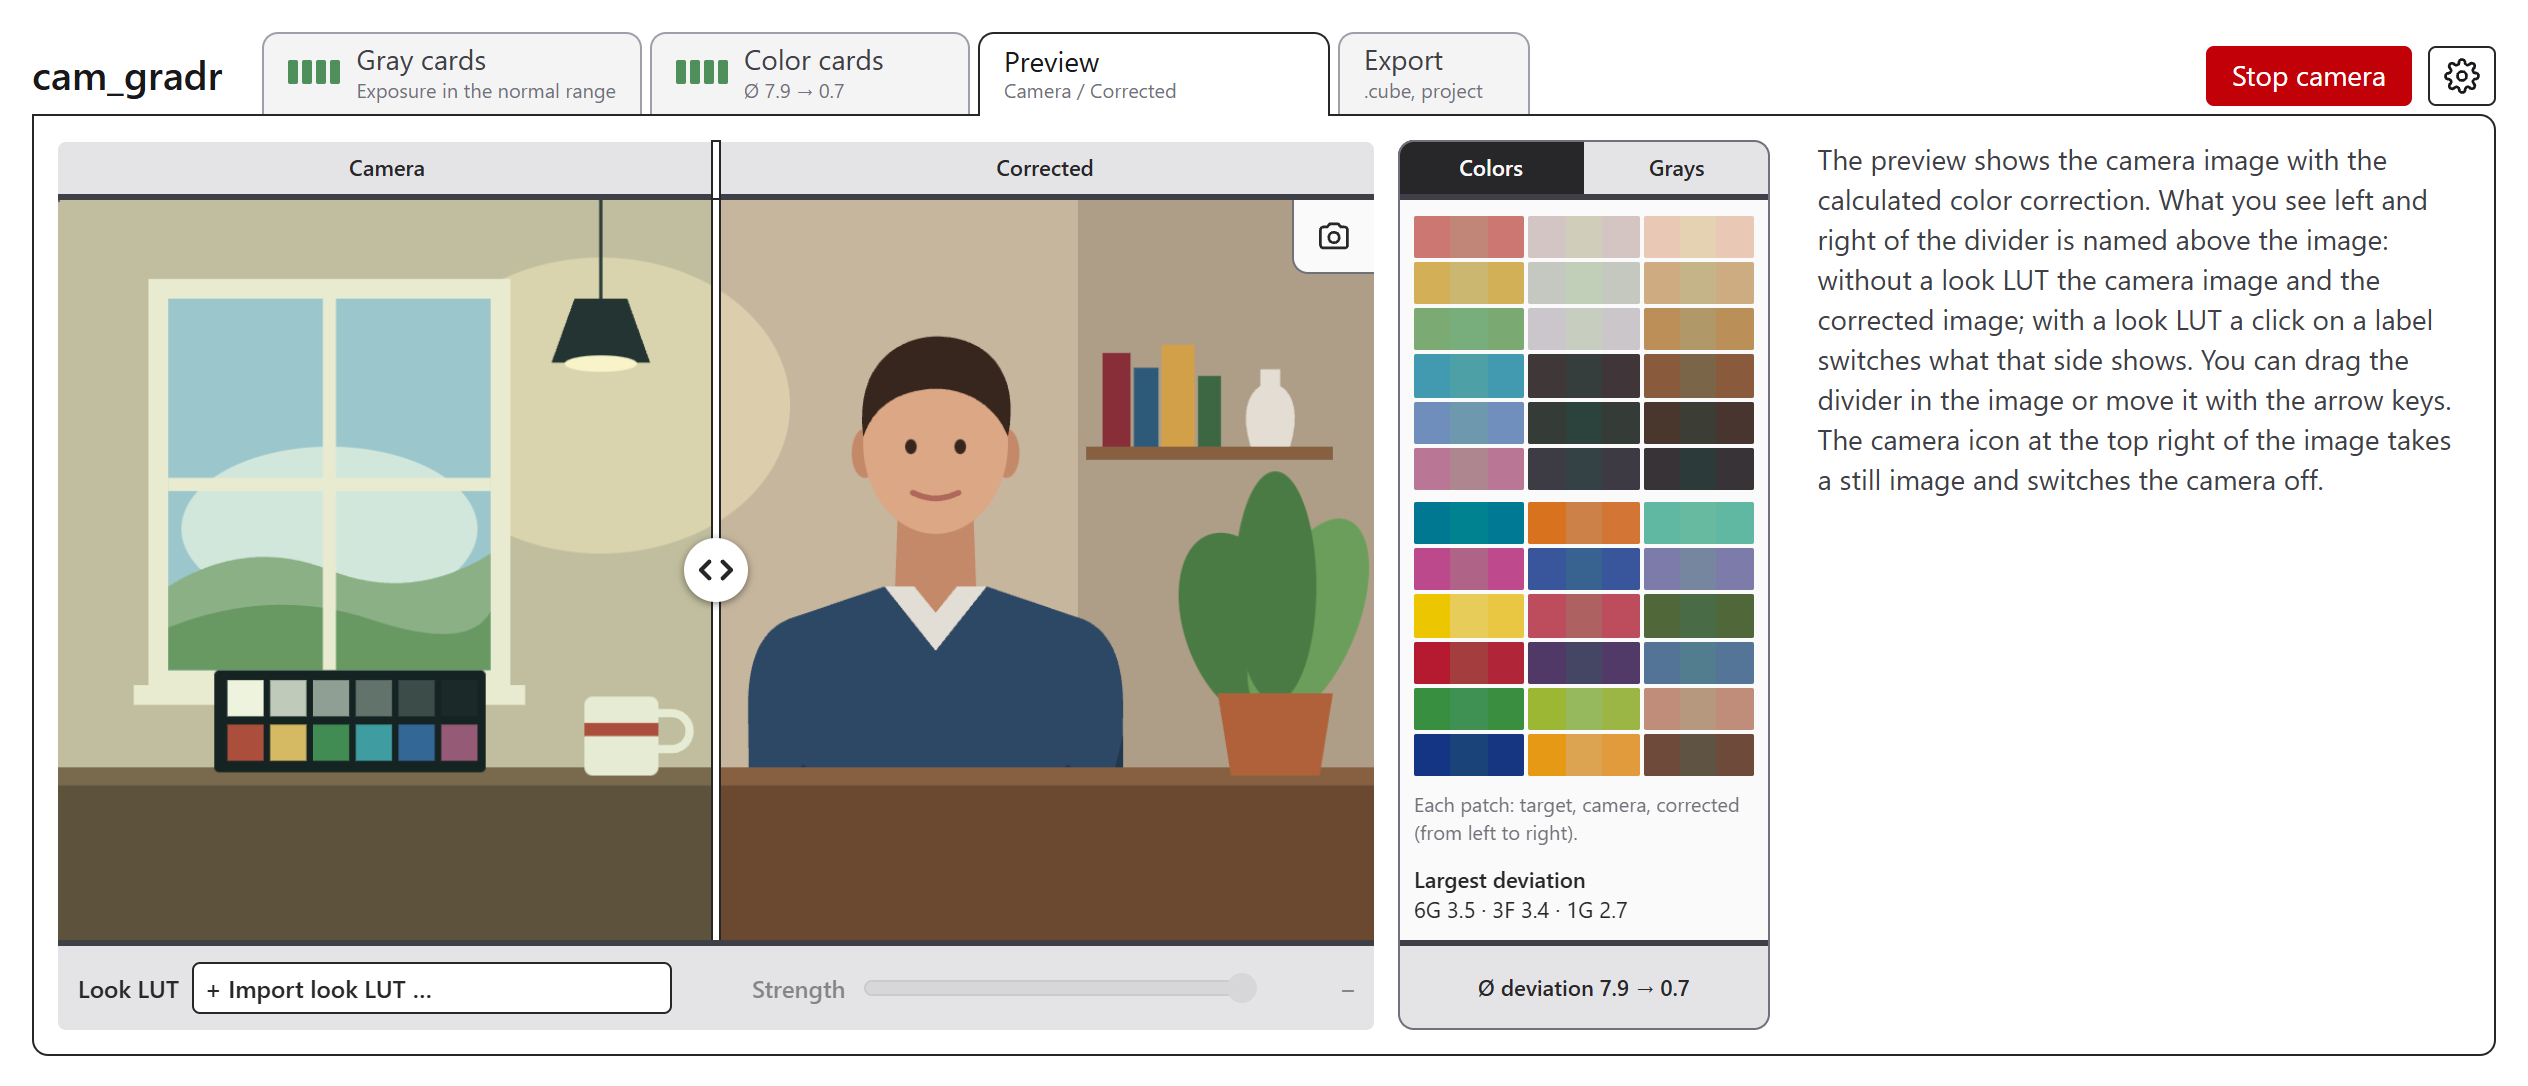
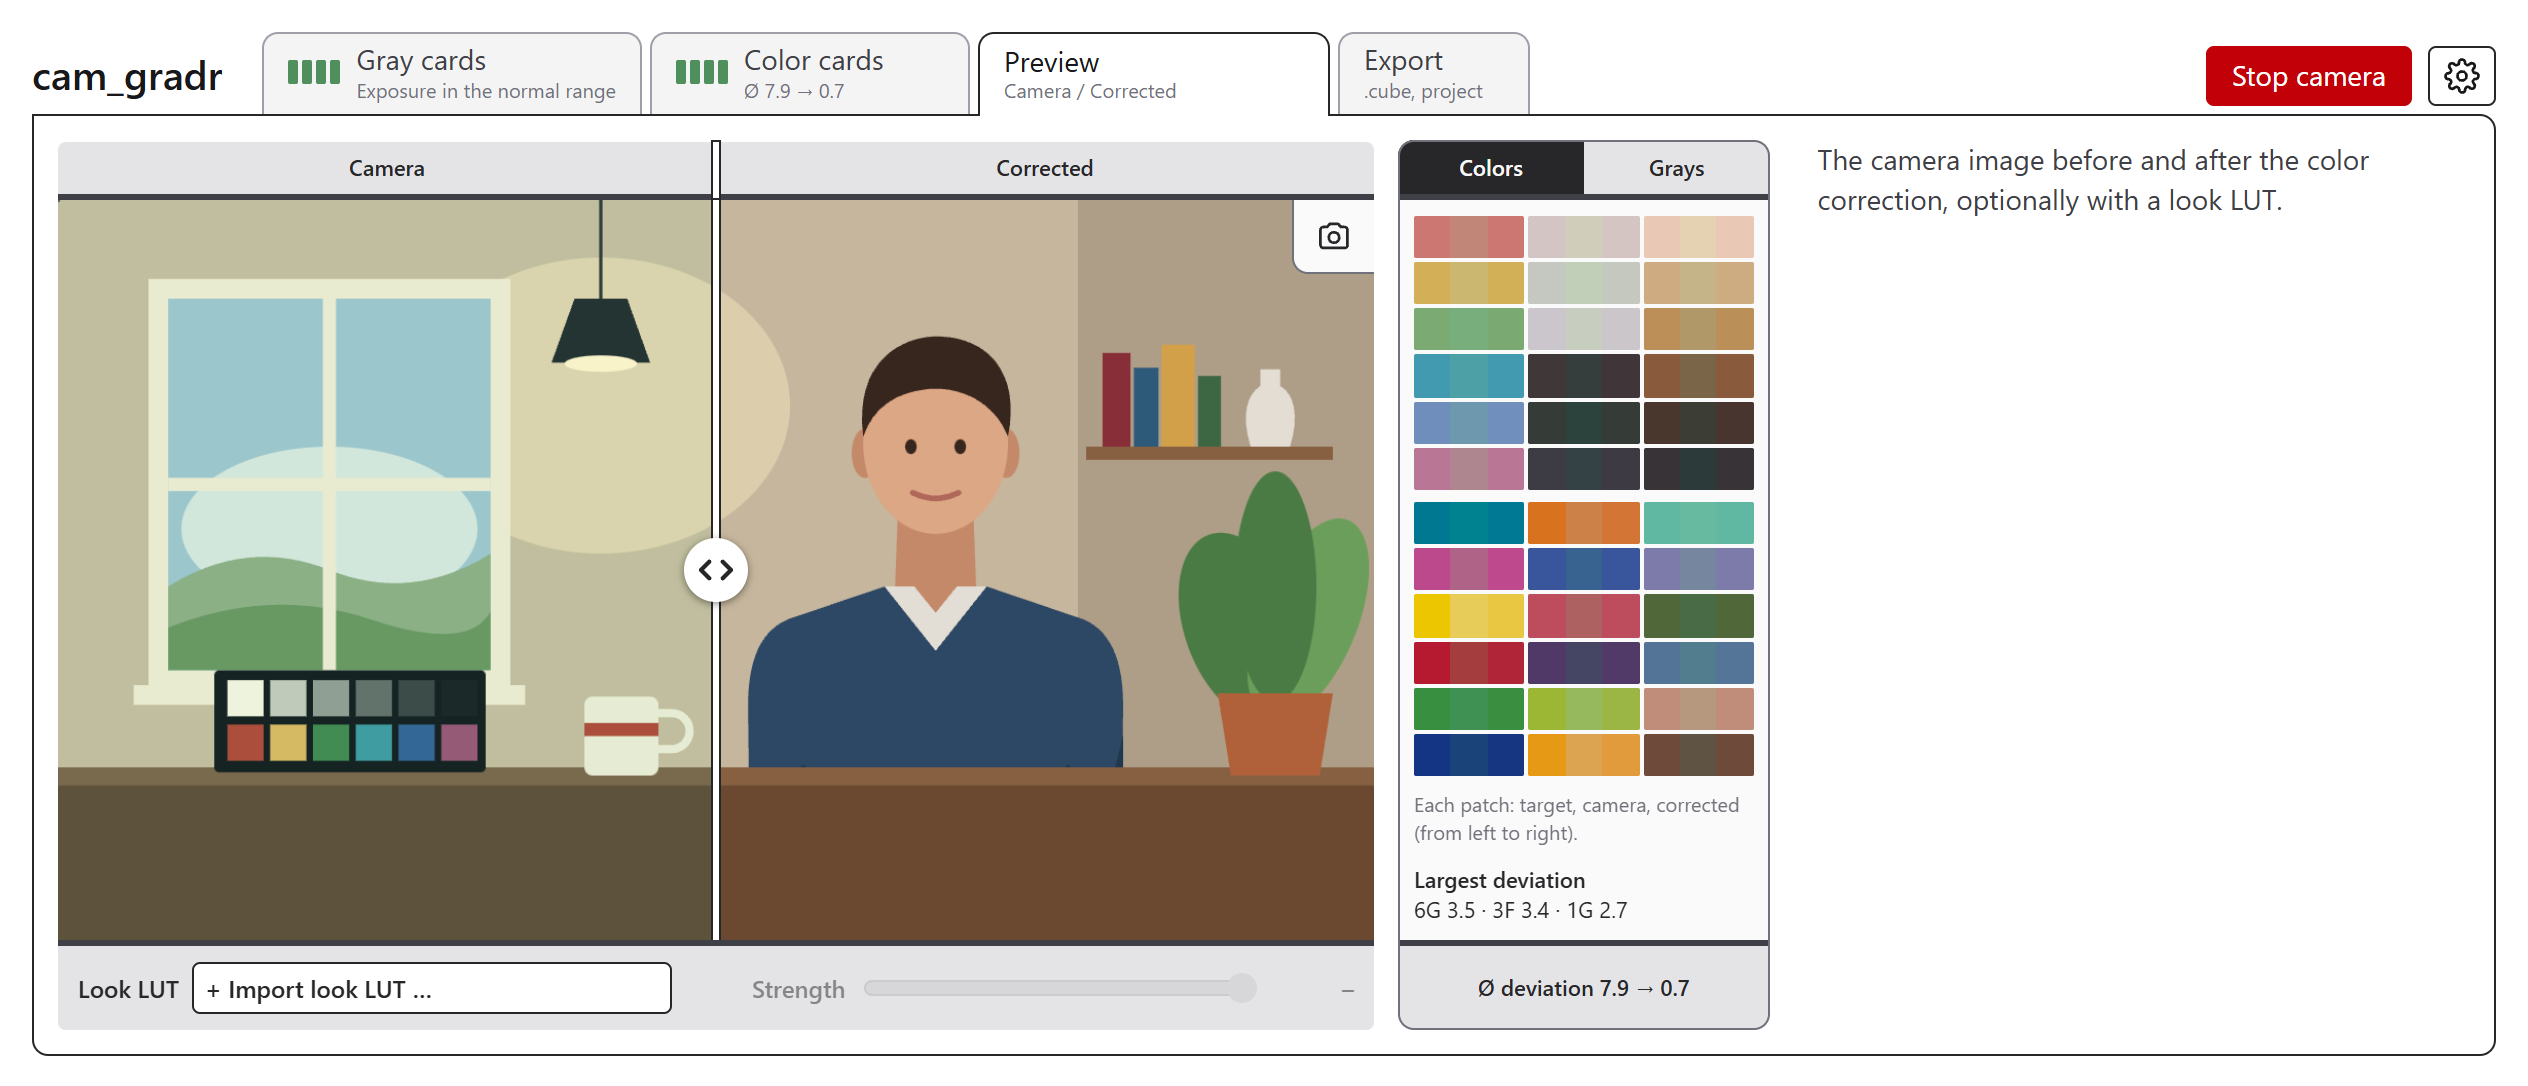
feat(ui): quieter placeholders and short tab descriptions (#127)
* feat(ui): quieter placeholders and short tab descriptions

- The placeholders in the image show only their state ("Die Kamera ist aus", "Noch keine
  Korrektur", "Noch kein Bild"); the explaining sentences go, also in the export, which keeps
  its link to the color cards. The placeholder of the preview cannot be selected any more, as
  on the card tabs.
- The descriptions in the text column say what the tab is for and what to aim for instead of
  the whole process; the line of the reference set drops the hint to the settings.
- README image regenerated.

* feat(ui): name the active reference set only in the settings

The line "Referenzwerte: … mit 48 Feldern." leaves the text column of the color cards: the set
is chosen and shown in the settings. A loaded correction whose set is missing still says so there,
since it has no report without it.

---------

Changed region(s): [[0.7188, 0.1215, 0.9688, 0.4558]]

diff --git a/src/ui/PreviewTab.vue b/src/ui/PreviewTab.vue
@@ -382,14 +382,13 @@ const splitModel = computed({
           />
           <!-- Without an image the placeholder also takes the row of the look bar. -->
           <div class="relative" :class="{ 'row-span-2': !showImage }">
-            <!-- Placeholder the size of the image while there is nothing to show. Under a camera
-                 error its lines move to the top and the hint to switch the camera on goes, as on
-                 the card tabs, so that the box of the error never covers them. What a missing
-                 correction needs has nothing to do with the camera and stays; the icon gives it
-                 the room (at 1024 px the box covered its second line). -->
+            <!-- Placeholder the size of the image while there is nothing to show, with only the
+                 state, as on the card tabs, and like them not selectable. Under a camera error its
+                 line moves to the top, so that the box of the error never covers it; without a
+                 correction the icon gives the line the room (at 1024 px the box covered it). -->
             <div
               v-if="!showImage"
-              class="flex w-full flex-col items-center gap-3 rounded-b border-2 border-t-0 border-dashed border-zinc-300 bg-zinc-100 p-6 text-center text-zinc-600"
+              class="flex w-full select-none flex-col items-center gap-3 rounded-b border-2 border-t-0 border-dashed border-zinc-300 bg-zinc-100 p-6 text-center text-zinc-600"
               :class="camera.errorMessage === null ? 'justify-center' : 'justify-start'"
               :style="{ aspectRatio: aspect }"
               data-testid="preview-placeholder"
@@ -416,19 +415,17 @@ const splitModel = computed({
               </svg>
               <p
                 v-if="model === null"
-                class="max-w-xs text-sm leading-snug"
+                class="max-w-xs text-sm font-semibold leading-snug text-zinc-800"
                 data-testid="preview-no-model"
               >
-                <span class="block font-semibold text-zinc-800">{{ t('app.noCorrection') }}</span>
-                {{ t('preview.noModelText') }}
+                {{ t('app.noCorrection') }}
               </p>
-              <p v-else class="max-w-xs text-sm leading-snug" data-testid="preview-no-source">
-                <span class="block font-semibold text-zinc-800">{{
-                  t('preview.noSourceTitle')
-                }}</span>
-                <template v-if="camera.errorMessage === null">{{
-                  t('preview.noSourceText', { button: t('camera.toggle.start') })
-                }}</template>
+              <p
+                v-else
+                class="max-w-xs text-sm font-semibold leading-snug text-zinc-800"
+                data-testid="preview-no-source"
+              >
+                {{ t('preview.noSourceTitle') }}
               </p>
             </div>
             <canvas

diff --git a/src/ui/ColorStep.test.ts b/src/ui/ColorStep.test.ts
@@ -50,48 +50,33 @@ describe('ColorStep', () => {
     vi.restoreAllMocks();
   });
 
-  it('shows the preselected reference set and only computes after the capture', async () => {
+  it('says what the tab is for and only computes after the capture', async () => {
     const wrapper = mount(ColorStep);
     await useReferenceStore().load();
     await flushPromises();
-    expect(wrapper.get('[data-testid="reference-active"]').text()).toContain(
-      `„${BUNDLED_NAME}“ mit 48 Feldern`,
-    );
-    expect(wrapper.text()).toContain('Halte beide Farbkarten ruhig dorthin, wo das Motiv steht');
+    expect(wrapper.text()).toContain('Hier entsteht die Farbkorrektur');
+    // The active set shows in the settings, where it is chosen.
+    expect(wrapper.text()).not.toContain(BUNDLED_NAME);
     expect(wrapper.find('[data-testid="report"]').exists()).toBe(false);
   });
 
-  it('names the missing set of a loaded correction without a report instead of the active one', async () => {
+  it('names the missing set of a loaded correction without a report', async () => {
     const wrapper = mount(ColorStep);
     await useReferenceStore().load();
     useSolveStore().loadModel(IDENTITY_MODEL, 'Fehlender Satz');
     await flushPromises();
-    const sentence = wrapper.get('[data-testid="reference-active"]').text();
+    const sentence = wrapper.get('[data-testid="reference-missing"]').text();
     expect(sentence).toContain('Referenzsatz „Fehlender Satz“ (fehlt)');
     expect(sentence).not.toContain(BUNDLED_NAME);
     expect(wrapper.get('[data-testid="color-wipe-summary"]').text()).toBe(
       'Ohne Bericht (Referenz fehlt)',
     );
-    // Without a name, or with a set the browser has, the active set is named as usual.
+    // Without a name, or with a set the browser has, there is nothing to say.
     for (const name of [null, BUNDLED_NAME]) {
       useSolveStore().loadModel(IDENTITY_MODEL, name);
       await flushPromises();
-      expect(wrapper.get('[data-testid="reference-active"]').text()).toContain('mit 48 Feldern');
+      expect(wrapper.find('[data-testid="reference-missing"]').exists()).toBe(false);
     }
-  });
-
-  it('shows no reference info before the references are loaded', () => {
-    const wrapper = mount(ColorStep);
-    expect(wrapper.find('[data-testid="reference-active"]').exists()).toBe(false);
-  });
-
-  it('follows the selected set', async () => {
-    const wrapper = mount(ColorStep);
-    await useReferenceStore().importChosen(chosenFile('a.json', dummyReferenceJson('Mein Satz')));
-    await flushPromises();
-    expect(wrapper.get('[data-testid="reference-active"]').text()).toContain(
-      '„Mein Satz“ mit 48 Feldern',
-    );
   });
 
   it('checks the correction against the measured gray cards from step 1', async () => {

diff --git a/src/ui/GrayStep.test.ts b/src/ui/GrayStep.test.ts
@@ -127,11 +127,11 @@ describe('GrayStep', () => {
     vi.restoreAllMocks();
   });
 
-  it('points to the camera switch when the camera is off', () => {
+  it('says that the camera is off, and what the tab is for', () => {
     installFakeCamera();
     const wrapper = mount(GrayStep);
     expect(wrapper.text()).toContain('Die Kamera ist aus');
-    expect(wrapper.text()).toContain('Die App erkennt sie selbst');
+    expect(wrapper.text()).toContain('Hier stellst du die Belichtung ein');
     expect(wrapper.text()).toContain('Noch keine Messung');
   });
 
@@ -187,7 +187,7 @@ describe('GrayStep', () => {
     expect(resetButton(wrapper)).toBeDefined();
   });
 
-  it('shows the corner points only on the still image and hints at dragging there', async () => {
+  it('shows the corner points only on the still image', async () => {
     const wrapper = await mountLive();
     placeAll();
     await flushPromises();
@@ -195,7 +195,6 @@ describe('GrayStep', () => {
     useCameraStore().still = grayFrame(1280, 720, 0.5);
     await flushPromises();
     expect(wrapper.findAll('circle')).toHaveLength(8);
-    expect(wrapper.text()).toContain('ziehe sie bei Bedarf');
   });
 
   it('shows only the placeholder with the camera off and no still image, even with corner points', async () => {
@@ -205,13 +204,10 @@ describe('GrayStep', () => {
     await flushPromises();
     expect(wrapper.find('[data-testid="card-placeholder"]').exists()).toBe(true);
     expect(wrapper.findAll('polygon')).toHaveLength(0);
-    expect(wrapper.get('[data-testid="card-placeholder"]').text()).toContain(
-      'Halte beide Graukarten',
-    );
-    // The band is there before the camera starts, so the image never moves; the hint names the
-    // button as it is labelled.
+    // The band is there before the camera starts, so the image never moves. The placeholder only
+    // names the state: the switch is at the top right, the text column says what the tab is for.
     expect(wrapper.get('[data-testid="stage-label"]').text()).toBe('Kamera aus');
-    expect(wrapper.get('[data-testid="card-placeholder"]').text()).toContain('„Kamera starten“');
+    expect(wrapper.get('[data-testid="card-placeholder"]').text()).toBe('Die Kamera ist aus');
   });
 
   it('shows a camera error on the image, where the camera image would be', async () => {

diff --git a/src/ui/CardStage.vue b/src/ui/CardStage.vue
@@ -34,8 +34,6 @@ import { attachStream, captureFromVideo, grabVideoFrame } from './video-bindings
 const props = defineProps<{
   store: ChartStore;
   layout: ChartLayout;
-  // Hint shown while no still image has been captured yet.
-  idleText: string;
   // Message when the cards in the image are not the expected ones (e.g. gray cards in the color step).
   wrongText: string;
   // Short form of the message, shown on the frame around the cards.
@@ -317,22 +315,10 @@ watch(actual, (next, previous) => {
             <rect x="14" y="3" width="30" height="54" rx="4" />
             <rect x="52" y="3" width="30" height="54" rx="4" />
           </svg>
-          <p class="max-w-xs text-sm leading-snug">
-            <template v-if="status === 'starting'">
-              <span class="block font-semibold text-zinc-800">{{
-                t('cards.stage.starting.title')
-              }}</span>
-              {{ t('cards.stage.starting.text') }}
-            </template>
-            <template v-else>
-              <span class="block font-semibold text-zinc-800">{{
-                t('cards.stage.off.title')
-              }}</span>
-              <template v-if="camera.errorMessage === null">
-                {{ t('cards.stage.off.text', { button: t('camera.toggle.start') }) }}
-                {{ idleText }}
-              </template>
-            </template>
+          <!-- Only the state: the switch of the camera is at the top right, the text column says
+               what the tab is for. -->
+          <p class="max-w-xs text-sm font-semibold leading-snug text-zinc-800">
+            {{ t(status === 'starting' ? 'cards.stage.starting.title' : 'cards.stage.off.title') }}
           </p>
         </div>
         <video

diff --git a/src/ui/PreviewTab.test.ts b/src/ui/PreviewTab.test.ts
@@ -99,11 +99,13 @@ describe('PreviewTab', () => {
     expect(wrapper.find('circle').exists()).toBe(false);
   });
 
-  it('points to camera or still image without an image source', () => {
+  it('names a missing image source, in a placeholder that cannot be selected', () => {
     computeModel();
     const wrapper = mount(PreviewTab);
     expect(wrapper.find('[data-testid="preview-no-model"]').exists()).toBe(false);
-    expect(wrapper.get('[data-testid="preview-no-source"]').text()).toContain('„Kamera starten“');
+    expect(wrapper.get('[data-testid="preview-no-source"]').text()).toBe('Noch kein Bild');
+    // As on the card tabs, whose image area belongs to the corner points.
+    expect(wrapper.get('[data-testid="preview-placeholder"]').classes()).toContain('select-none');
     // Without an image the band says what the camera does, as on the card tabs.
     expect(wrapper.get('[data-testid="stage-label"]').text()).toBe('Kamera aus');
   });
@@ -114,8 +116,8 @@ describe('PreviewTab', () => {
     await useCameraStore().start();
     await flushPromises();
     expect(wrapper.get('[data-testid="camera-error"]').text()).toContain('nicht gestartet');
-    // What a missing correction needs has nothing to do with the camera; the icon gives it room.
-    expect(wrapper.get('[data-testid="preview-no-model"]').text()).toContain('Berechne sie zuerst');
+    // A missing correction has nothing to do with the camera and stays; the icon gives it room.
+    expect(wrapper.get('[data-testid="preview-no-model"]').text()).toBe('Noch keine Korrektur');
     const icon = () => wrapper.find('[data-testid="preview-placeholder"] svg');
     expect(icon().exists()).toBe(false);
     computeModel();

diff --git a/src/ui/ColorStep.vue b/src/ui/ColorStep.vue
@@ -49,16 +49,10 @@ function grayCheck(current: FitResult) {
       <p class="text-sm text-zinc-700">
         {{ t('color.intro') }}
       </p>
-      <p v-if="missingSet !== null" class="text-sm text-zinc-700" data-testid="reference-active">
+      <!-- The active reference set shows in the settings, where it is chosen; here only a loaded
+           correction whose set is missing, since it has no report without it. -->
+      <p v-if="missingSet !== null" class="text-sm text-zinc-700" data-testid="reference-missing">
         {{ t('color.referenceMissing', { name: referenceLabel(missingSet) }) }}
-      </p>
-      <p v-else-if="selected !== null" class="text-sm text-zinc-700" data-testid="reference-active">
-        {{
-          t('color.referenceActive', {
-            name: referenceLabel(selected.name),
-            count: Object.keys(selected.patches).length,
-          })
-        }}
       </p>
       <!-- In the text column, as the error of the preview: under the image it would make the tab
            taller. -->
@@ -71,7 +65,6 @@ function grayCheck(current: FitResult) {
       <CardStage
         :store="chart"
         :layout="colorLayout"
-        :idle-text="t('color.idle')"
         :wrong-text="t('color.wrong')"
         :wrong-label="t('color.wrongLabel')"
       >

diff --git a/e2e/step-2-color-correction.spec.ts b/e2e/step-2-color-correction.spec.ts
@@ -23,13 +23,8 @@ test.describe('Color cards', () => {
     await app.openReferenceSettings();
     const select = app.page.getByTestId('reference-select');
     await select.selectOption('Saved list');
-    await app.closeSettings();
-    await app.openTab('Farbkarten');
-    await expect(app.page.getByTestId('reference-active')).toContainText(
-      '„Saved list“ mit 48 Feldern',
-    );
+    await expect(select).toHaveValue('Saved list');
 
-    await app.openReferenceSettings();
     await app.button('Satz löschen').click();
     // Only after the confirmation is the set also removed from the browser storage.
     await expect(app.page.getByTestId('reference-removed')).toBeVisible();

diff --git a/src/ui/ExportTab.vue b/src/ui/ExportTab.vue
@@ -163,8 +163,8 @@ function download(current: ColorModel): void {
         <template #file><code>.cube</code></template>
       </I18nT>
       <p v-if="model === null" class="text-xs text-zinc-700" data-testid="export-no-model">
-        <span class="block font-semibold">{{ t('app.noCorrection') }}</span>
-        {{ t('export.lut.noModelText') }}
+        <!-- The line break in the template is no space: the margin keeps the link apart. -->
+        <span class="mr-1 font-semibold">{{ t('app.noCorrection') }}</span>
         <button type="button" :class="LINK_BUTTON" @click="emit('goto', 'color')">
           {{ t('export.lut.gotoColor') }}
         </button>

diff --git a/src/App.test.ts b/src/App.test.ts
@@ -47,7 +47,7 @@ describe('App', () => {
     expect(wrapper.get('h1').text()).toBe(APP_NAME);
     expect(wrapper.get('[data-testid="camera-toggle"]').text()).toBe('Kamera starten');
     expect(wrapper.find('[data-testid="settings-button"]').exists()).toBe(true);
-    expect(wrapper.text()).toContain('Dieser Tab stellt die Raumhelligkeit ein');
+    expect(wrapper.text()).toContain('Hier stellst du die Belichtung ein');
     expect(wrapper.get('footer').text()).toContain(APP_ID);
     expect(wrapper.get('footer').text()).toContain(`Version ${APP_VERSION}`);
   });

diff --git a/e2e/support/app-page.ts b/e2e/support/app-page.ts
@@ -125,7 +125,7 @@ export class AppPage {
     await this.expectCorners();
     await this.expectNormalLight();
     await this.openTab('Farbkarten');
-    await expect(this.page.getByText('Dieser Tab berechnet die Farbkorrektur')).toBeVisible();
+    await expect(this.page.getByText('Hier entsteht die Farbkorrektur')).toBeVisible();
   }
 
   // All the way to the computed color correction: gray cards, reference values, color cards,

diff --git a/src/ui/GrayStep.vue b/src/ui/GrayStep.vue
@@ -27,7 +27,6 @@ const { t } = useI18n();
       <CardStage
         :store="chart"
         :layout="grayLayout"
-        :idle-text="t('cards.gray.idle')"
         :wrong-text="t('cards.gray.wrong')"
         :wrong-label="t('cards.gray.wrongLabel')"
       >
